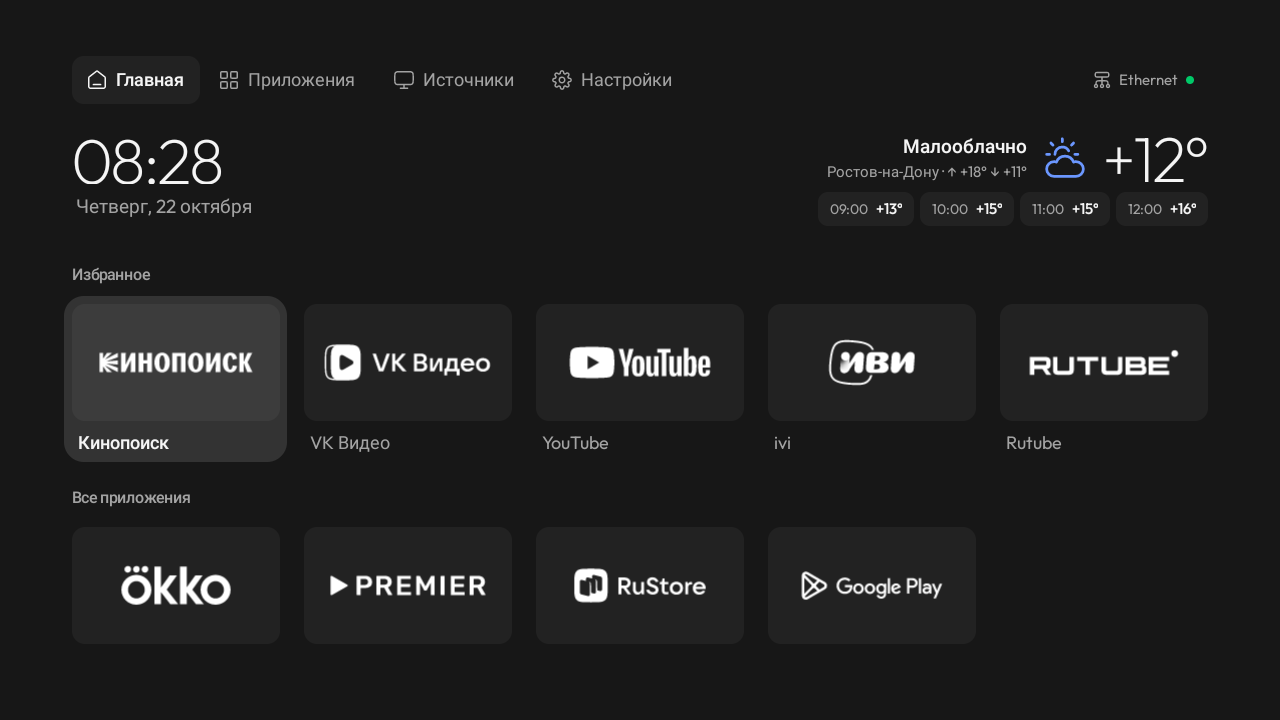
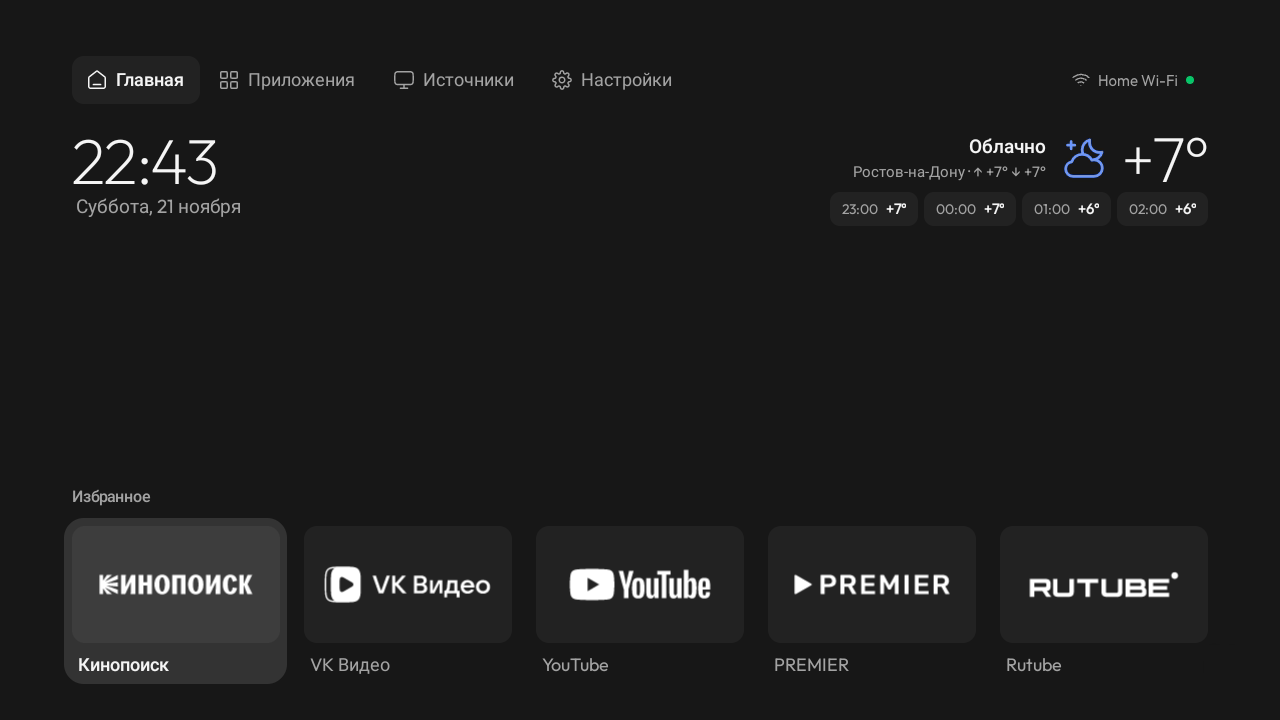
README: Home with Favourites, the Apps screen, the tile menu
A new snapshot of Home from the TV and one of the Apps screen; the
features list says where the apps are now and what holding OK does.
The network label shows "Home Wi-Fi", as in the mockup.

diff --git a/README.ru.md b/README.ru.md
@@ -7,9 +7,13 @@
 [cleanyourtv](https://github.com/Gathin23/cleanyourtv), сделанный для телевизора Xiaomi, у которого стандартный
 главный экран ставил рекламу и рекомендации впереди приложений.
 
-![Главная stillOS: Кинопоиск, VK Видео, YouTube, ivi и Rutube в избранном, справа погода](docs/stillos/home-ru.png)
+![Главная stillOS: часы и погода сверху, внизу избранное: Кинопоиск, VK Видео, YouTube, Premier и Rutube](docs/stillos/home-ru.png)
 
 <sub>Снимок с телевизора Xiaomi MiTV-MOSR1.</sub>
+
+![Экран «Приложения»: под шапкой избранное, затем все приложения](docs/stillos/apps-ru.png)
+
+<sub>Экран «Приложения».</sub>
 
 ## Что изменено
 
@@ -26,8 +30,11 @@
 - **Заставка в том же стиле.** Часы, дата и погода в одну строку. Раз в минуту строка незаметно сдвигается на
   несколько пикселей, чтобы ничего не выгорало.
 - **Спокойная анимация.** Между плитками мягко переезжает одна подложка фокуса, ничего не прыгает и не увеличивается.
-- **Избранное меняется с пульта.** Зажмите OK на «Настройках» и выберите «Изменить избранное».
-- **Кнопки пульта.** На пульте MiTV кнопка Netflix открывает VK Видео, а ▦ — все приложения. Назначения меняются в
+- **Главная и «Приложения».** На главной часы, погода и один ряд избранного. Все приложения на отдельном экране
+  «Приложения», сначала избранное; «Назад» возвращает на главную.
+- **Меню у каждой плитки.** Зажмите OK на плитке (или нажмите «Меню» на пульте): «Переместить», «Заменить» на главной,
+  «Добавить в избранное» или «Убрать из избранного» на экране «Приложения» и «О приложении».
+- **Кнопки пульта.** На пульте MiTV кнопка Netflix открывает VK Видео, а ▦ — экран «Приложения». Назначения меняются в
   `launcher/app/src/main/res/values/config.xml` (`app_keys`).
 
 ![Заставка: слева часы и дата, справа погода](docs/stillos/screensaver-ru.png)

diff --git a/README.md b/README.md
@@ -16,6 +16,10 @@ launcher draws.</sub>
 
 <sub>On the actual TV: a Xiaomi MiTV-MOSR1 with the Russian interface and the owner's apps.</sub>
 
+![The Apps screen on the TV: Favourites, then all apps, under the header](docs/stillos/apps-ru.png)
+
+<sub>The Apps screen on the TV.</sub>
+
 ## What it changes
 
 - **Neutral tiles with white logos.** Every app gets the same dark tile with the service's own logo in white, instead
@@ -31,8 +35,11 @@ launcher draws.</sub>
 - **A screensaver to match.** The clock, the date and the weather in one row. It drifts a few pixels a minute, too
   slowly to notice, so nothing burns in.
 - **Calm motion.** One soft focus plate glides between tiles; nothing zooms or bounces.
-- **Favourites you edit from the remote.** Hold OK on Settings and choose *Edit favourites*.
-- **Remote keys.** On the MiTV remote the Netflix key opens VK Video and ▦ opens all apps. Change them in
+- **Home and Apps.** Home has the clock, the weather and one row of Favourites. Every app is on the Apps screen,
+  Favourites first; Back returns to Home.
+- **A menu on every tile.** Hold OK on a tile (or press Menu on the remote): *Move*, *Replace* on Home,
+  *Add to Favourites* or *Remove from Favourites* on the Apps screen, and *App info*.
+- **Remote keys.** On the MiTV remote the Netflix key opens VK Video and ▦ opens the Apps screen. Change them in
   `launcher/app/src/main/res/values/config.xml` (`app_keys`).
 
 ![The screensaver on the TV: clock and date on the left, weather on the right](docs/stillos/screensaver-ru.png)
